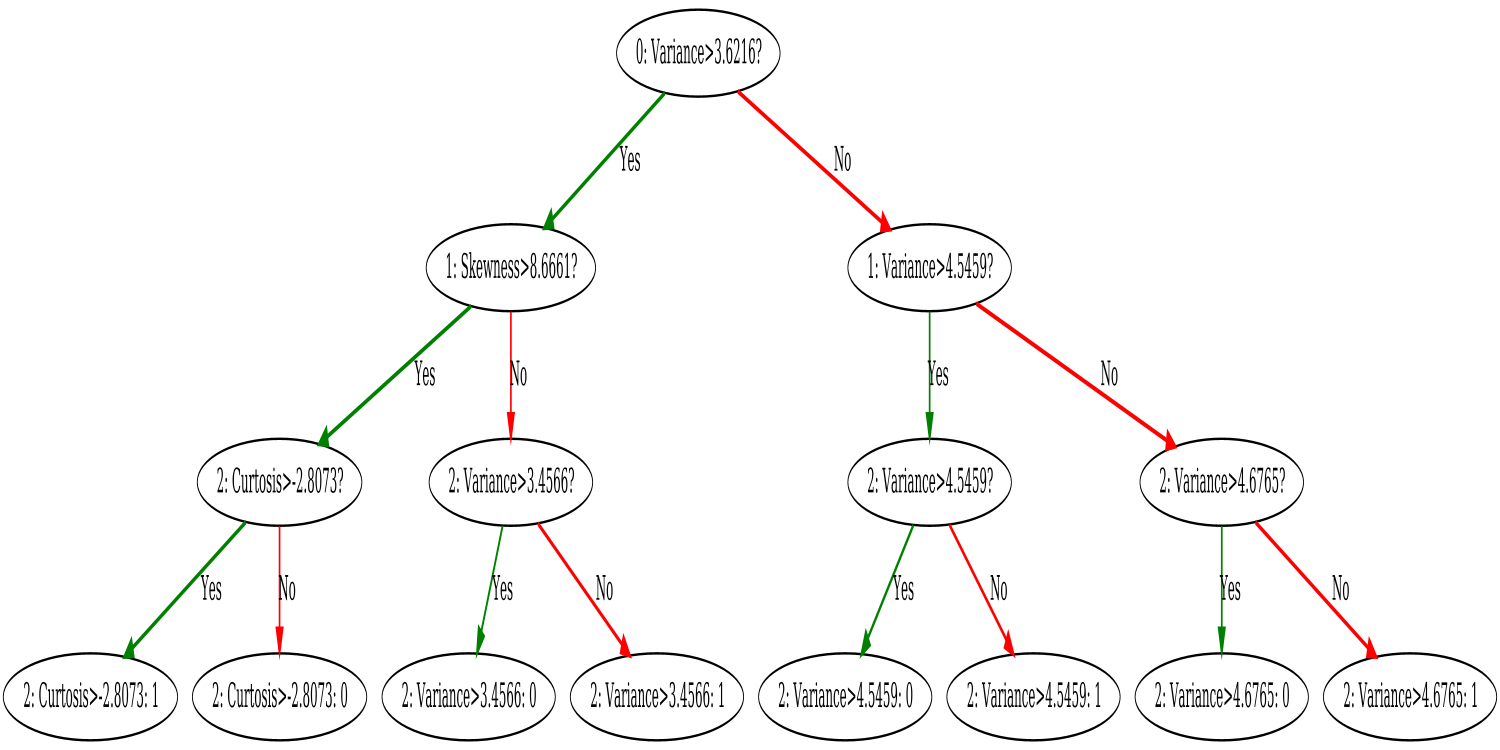
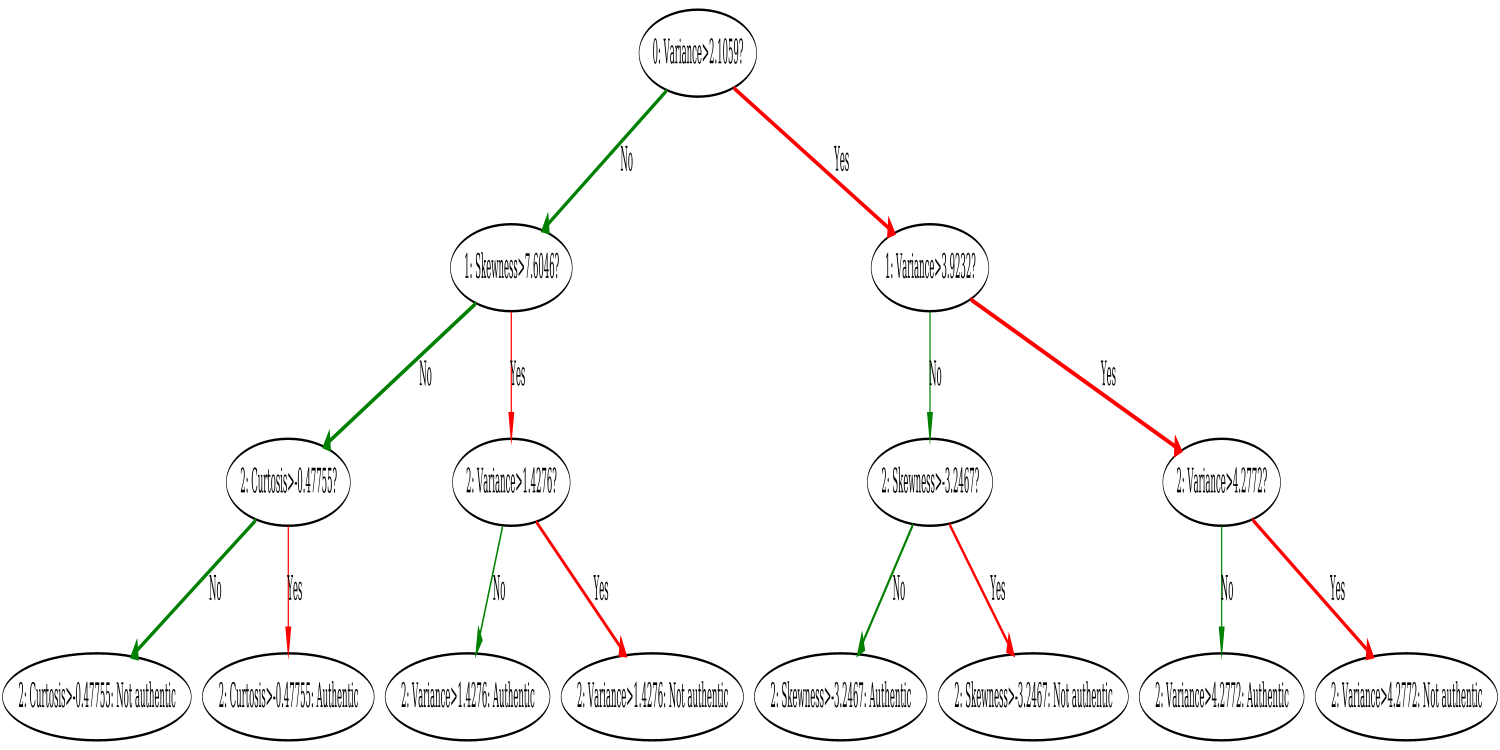
Better visualization

diff --git a/src/main/kotlin/de/longuyen/cart/DecisionTreeClassifier.kt b/src/main/kotlin/de/longuyen/cart/DecisionTreeClassifier.kt
@@ -95,26 +95,19 @@ class DecisionTreeClassifier(private val dataset: Dataset, private val maxDepth:
                 treeMap[current.right!!] =
                     mutNode("${current.right!!.depth}: ${dataset.featureName(current.right!!.attributeIndex)} > ${current.right!!.attributeValue}?")
                 treeMap[current]!!.addLink(
-                    Factory.to(treeMap[current.left!!]!!).with(Style.BOLD, Label.of("Yes"), Color.GREEN)
+                    Factory.to(treeMap[current.left!!]!!).with(Style.BOLD, Label.of("No"), Color.GREEN)
                 )
                 treeMap[current]!!.addLink(
-                    Factory.to(treeMap[current.right!!]!!).with(Style.BOLD, Label.of("No"), Color.RED)
+                    Factory.to(treeMap[current.right!!]!!).with(Style.BOLD, Label.of("Yes"), Color.RED)
                 )
             } else {
                 treeMap[current]!!.addLink(
-                    Factory.to(mutNode("${current.depth}: ${dataset.featureName(current.attributeIndex)} > ${current.attributeValue}: ${current.target!!}"))
-                        .with(Style.BOLD, Label.of("Yes"), Color.GREEN)
+                    Factory.to(mutNode("${current.depth}: ${dataset.featureName(current.attributeIndex)} > ${current.attributeValue}: ${dataset.targetName(current.target!!)}"))
+                        .with(Style.BOLD, Label.of("No"), Color.GREEN)
                 )
                 treeMap[current]!!.addLink(
-                    Factory.to(
-                        mutNode(
-                            "${current.depth}: ${dataset.featureName(current.attributeIndex)} > ${current.attributeValue}: ${
-                                (current.target!!).xor(
-                                    1
-                                )
-                            }"
-                        )
-                    ).with(Style.BOLD, Label.of("No"), Color.RED)
+                    Factory.to(mutNode("${current.depth}: ${dataset.featureName(current.attributeIndex)} > ${current.attributeValue}: ${dataset.targetName((current.target!!).xor(1))}"))
+                        .with(Style.BOLD, Label.of("Yes"), Color.RED)
                 )
             }
             queue.removeFirst()
@@ -152,6 +145,7 @@ class DecisionTreeClassifier(private val dataset: Dataset, private val maxDepth:
 
     /**
      * Brute force the dataset, iterate every data point and its feature, compute the gini index and return the best possible split of this dataset.
+     *
      * @param features features of the sub-dataset
      * @param targets targets of the sub-dataset
      */
@@ -209,8 +203,10 @@ class DecisionTreeClassifier(private val dataset: Dataset, private val maxDepth:
 
     /**
      * Do a split of the sub-dataset based on the attribute and the attribute value.
-     * Rows that have greater value at @{attributeIndex} will go to the left.
-     * Rows that have smaller value at @{attributeIndex} will go to the right.
+     *
+     * Rows that have greater value at @{attributeIndex} will go to the right.
+     * Rows that have smaller value at @{attributeIndex} will go to the left.
+     *
      * @return the split of these parameters
      */
     private fun split(

diff --git a/src/main/kotlin/de/longuyen/data/BanknoteDataset.kt b/src/main/kotlin/de/longuyen/data/BanknoteDataset.kt
@@ -37,6 +37,14 @@ class BanknoteDataset : Dataset {
         )[index]
     }
 
+    override fun targetName(target: Int): String {
+        return if(target == 0){
+            "Authentic"
+        } else{
+            "Not authentic"
+        }
+    }
+
     override fun isContinuous(): Boolean {
         return true
     }

diff --git a/src/main/kotlin/de/longuyen/Main.kt b/src/main/kotlin/de/longuyen/Main.kt
@@ -7,6 +7,8 @@ fun main() {
     val dataset = BanknoteDataset()
     dataset.shuffle()
     val tree = DecisionTreeClassifier(dataset, 3, 1)
+    val xTest = dataset.xTest(0.25)
+    val yTest = dataset.yTest(0.25)
     tree.visualize(1500, 750, "target/output.png")
 }
 

diff --git a/src/main/kotlin/de/longuyen/data/Dataset.kt b/src/main/kotlin/de/longuyen/data/Dataset.kt
@@ -3,6 +3,8 @@ package de.longuyen.data
 interface Dataset {
     fun featureName(index: Int) : String
 
+    fun targetName(target: Int) : String
+
     fun isContinuous() : Boolean
 
     fun features() : Array<Array<Double>>
